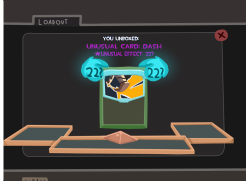
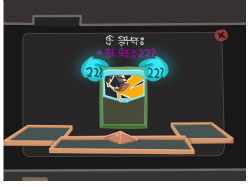
Beta Art

Changed region(s): [[0.336, 0.1842, 0.644, 0.3158], [0.14, 0.1053, 0.28, 0.1316]]

diff --git a/src/main/java/champ/cards/ShieldWall.java b/src/main/java/champ/cards/ShieldWall.java
@@ -6,6 +6,8 @@ import com.megacrit.cardcrawl.monsters.AbstractMonster;
 import com.megacrit.cardcrawl.powers.DexterityPower;
 import com.megacrit.cardcrawl.powers.MetallicizePower;
 
+import static champ.ChampMod.loadJokeCardImage;
+
 public class ShieldWall extends AbstractChampCard {
 
     public final static String ID = makeID("ShieldWall");
@@ -19,6 +21,7 @@ public class ShieldWall extends AbstractChampCard {
         super(ID, 2, CardType.POWER, CardRarity.UNCOMMON, CardTarget.SELF);
         baseMagicNumber = magicNumber = MAGIC;
         postInit();
+        loadJokeCardImage(this, "ShieldWall.png");
     }
 
     public void use(AbstractPlayer p, AbstractMonster m) {

diff --git a/src/main/java/theHexaghost/cards/EtherealExpedition.java b/src/main/java/theHexaghost/cards/EtherealExpedition.java
@@ -5,6 +5,7 @@ import com.megacrit.cardcrawl.cards.AbstractCard;
 import com.megacrit.cardcrawl.characters.AbstractPlayer;
 import com.megacrit.cardcrawl.dungeons.AbstractDungeon;
 import com.megacrit.cardcrawl.monsters.AbstractMonster;
+import theHexaghost.HexaMod;
 
 import java.util.ArrayList;
 
@@ -20,6 +21,7 @@ public class EtherealExpedition extends AbstractHexaCard {
         super(ID, 1, CardType.SKILL, CardRarity.UNCOMMON, CardTarget.SELF);
         isEthereal = true;
         exhaust = true;
+        HexaMod.loadJokeCardImage(this, "EtherealExpedition.png");
     }
 
     private static AbstractCard returnTrulyRandomEtherealCardInCombat() {

diff --git a/src/main/java/sneckomod/cards/unknowns/Unknown1Cost.java b/src/main/java/sneckomod/cards/unknowns/Unknown1Cost.java
@@ -13,6 +13,7 @@ public class Unknown1Cost extends AbstractUnknownCard {
 
     public Unknown1Cost() {
         super(ID, CardType.SKILL, CardRarity.COMMON);
+        SneckoMod.loadJokeCardImage(this, "Unknown1Cost.png");
     }
 
     @Override

diff --git a/src/main/java/sneckomod/cards/unknowns/Unknown3Cost.java b/src/main/java/sneckomod/cards/unknowns/Unknown3Cost.java
@@ -13,6 +13,7 @@ public class Unknown3Cost extends AbstractUnknownCard {
 
     public Unknown3Cost() {
         super(ID, CardType.SKILL, CardRarity.RARE);
+        SneckoMod.loadJokeCardImage(this, "Unknown3Cost.png");
     }
 
     @Override
